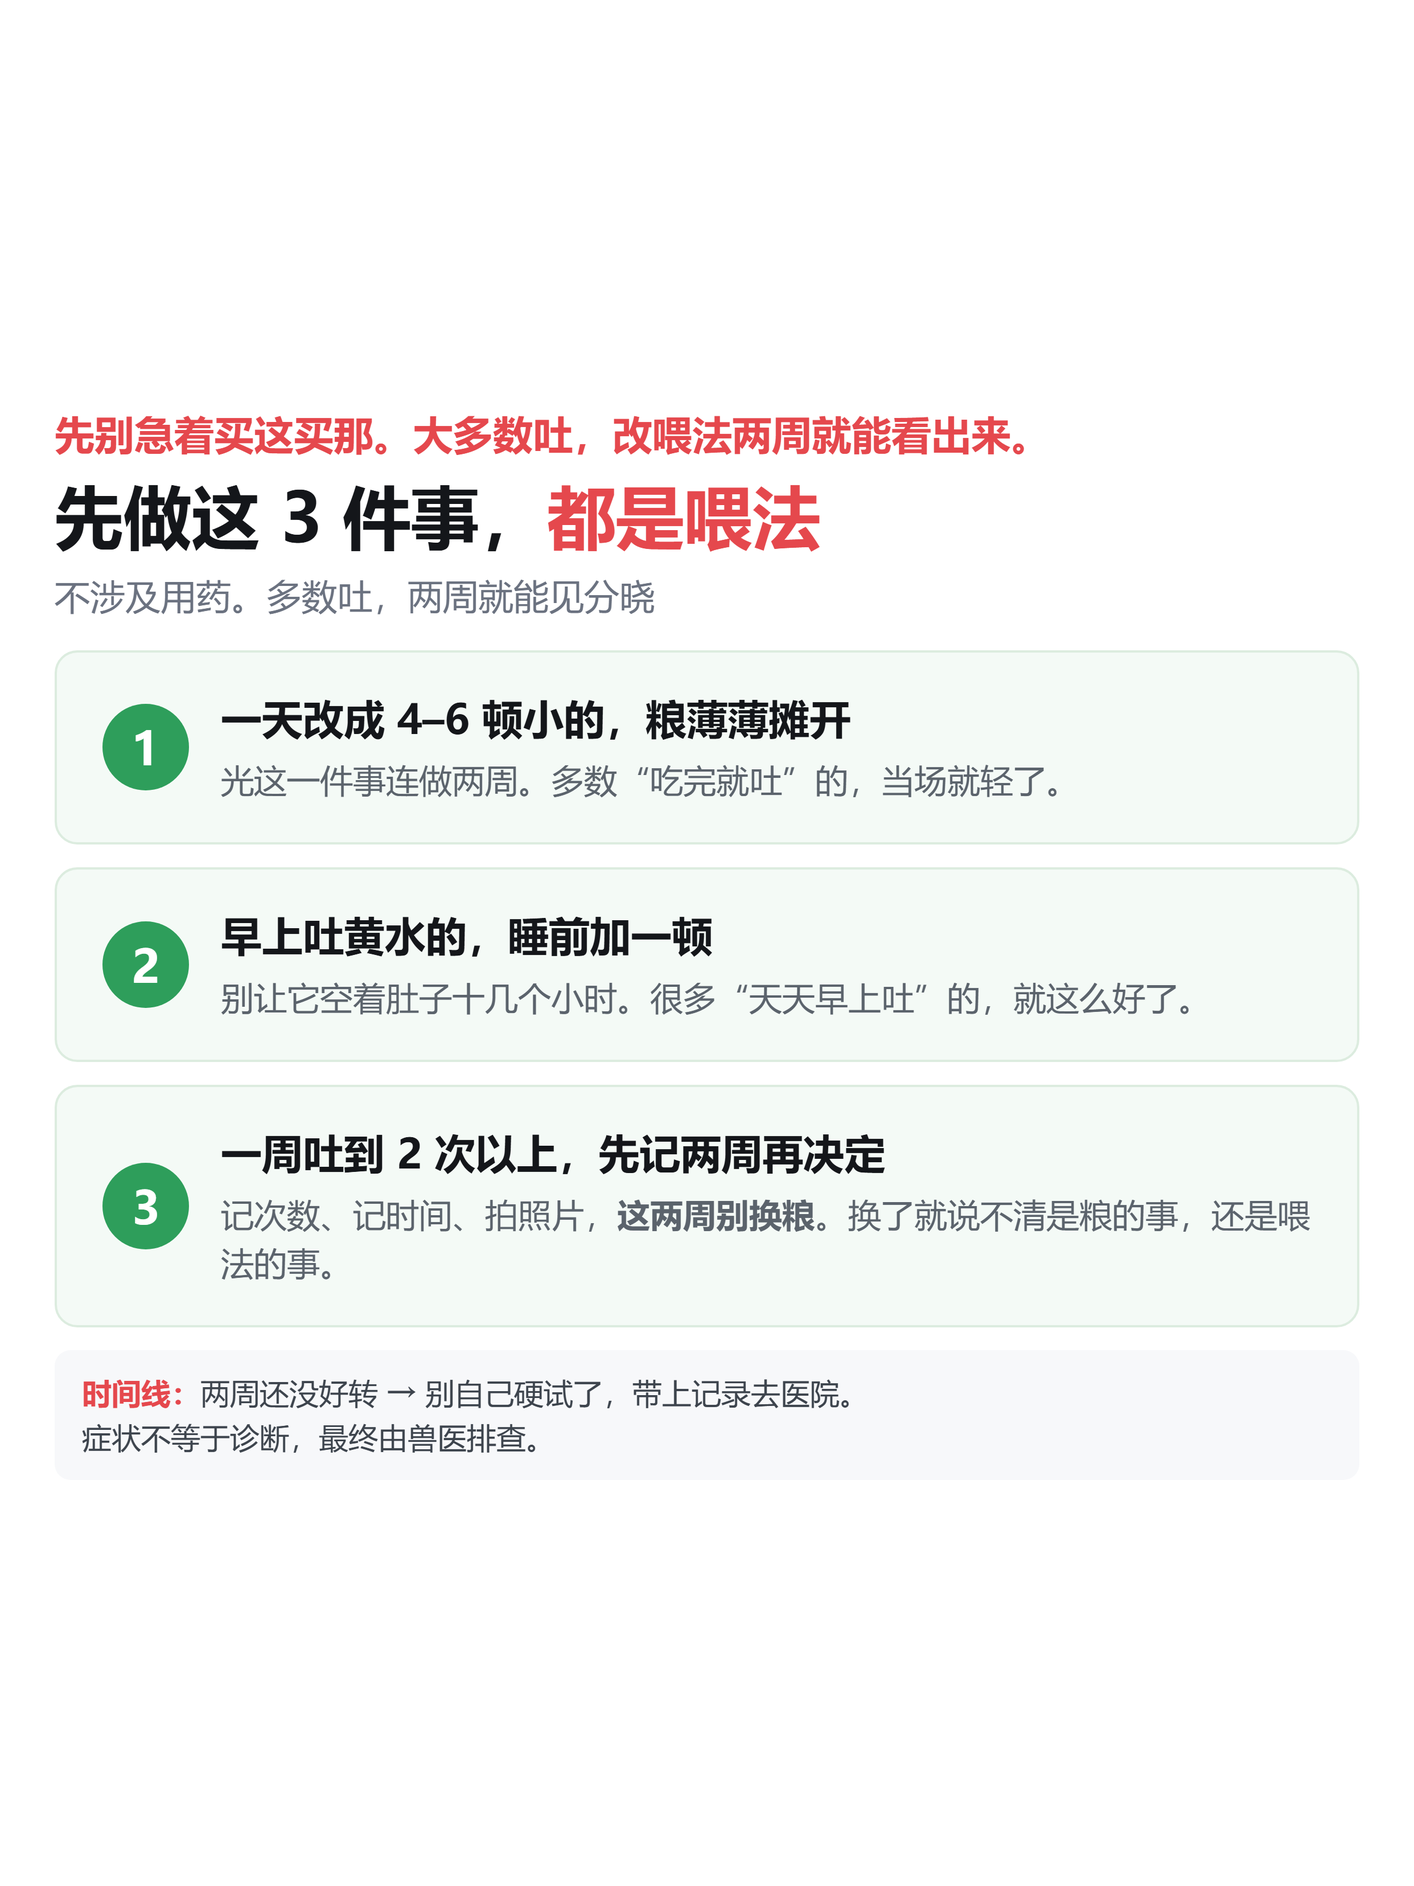
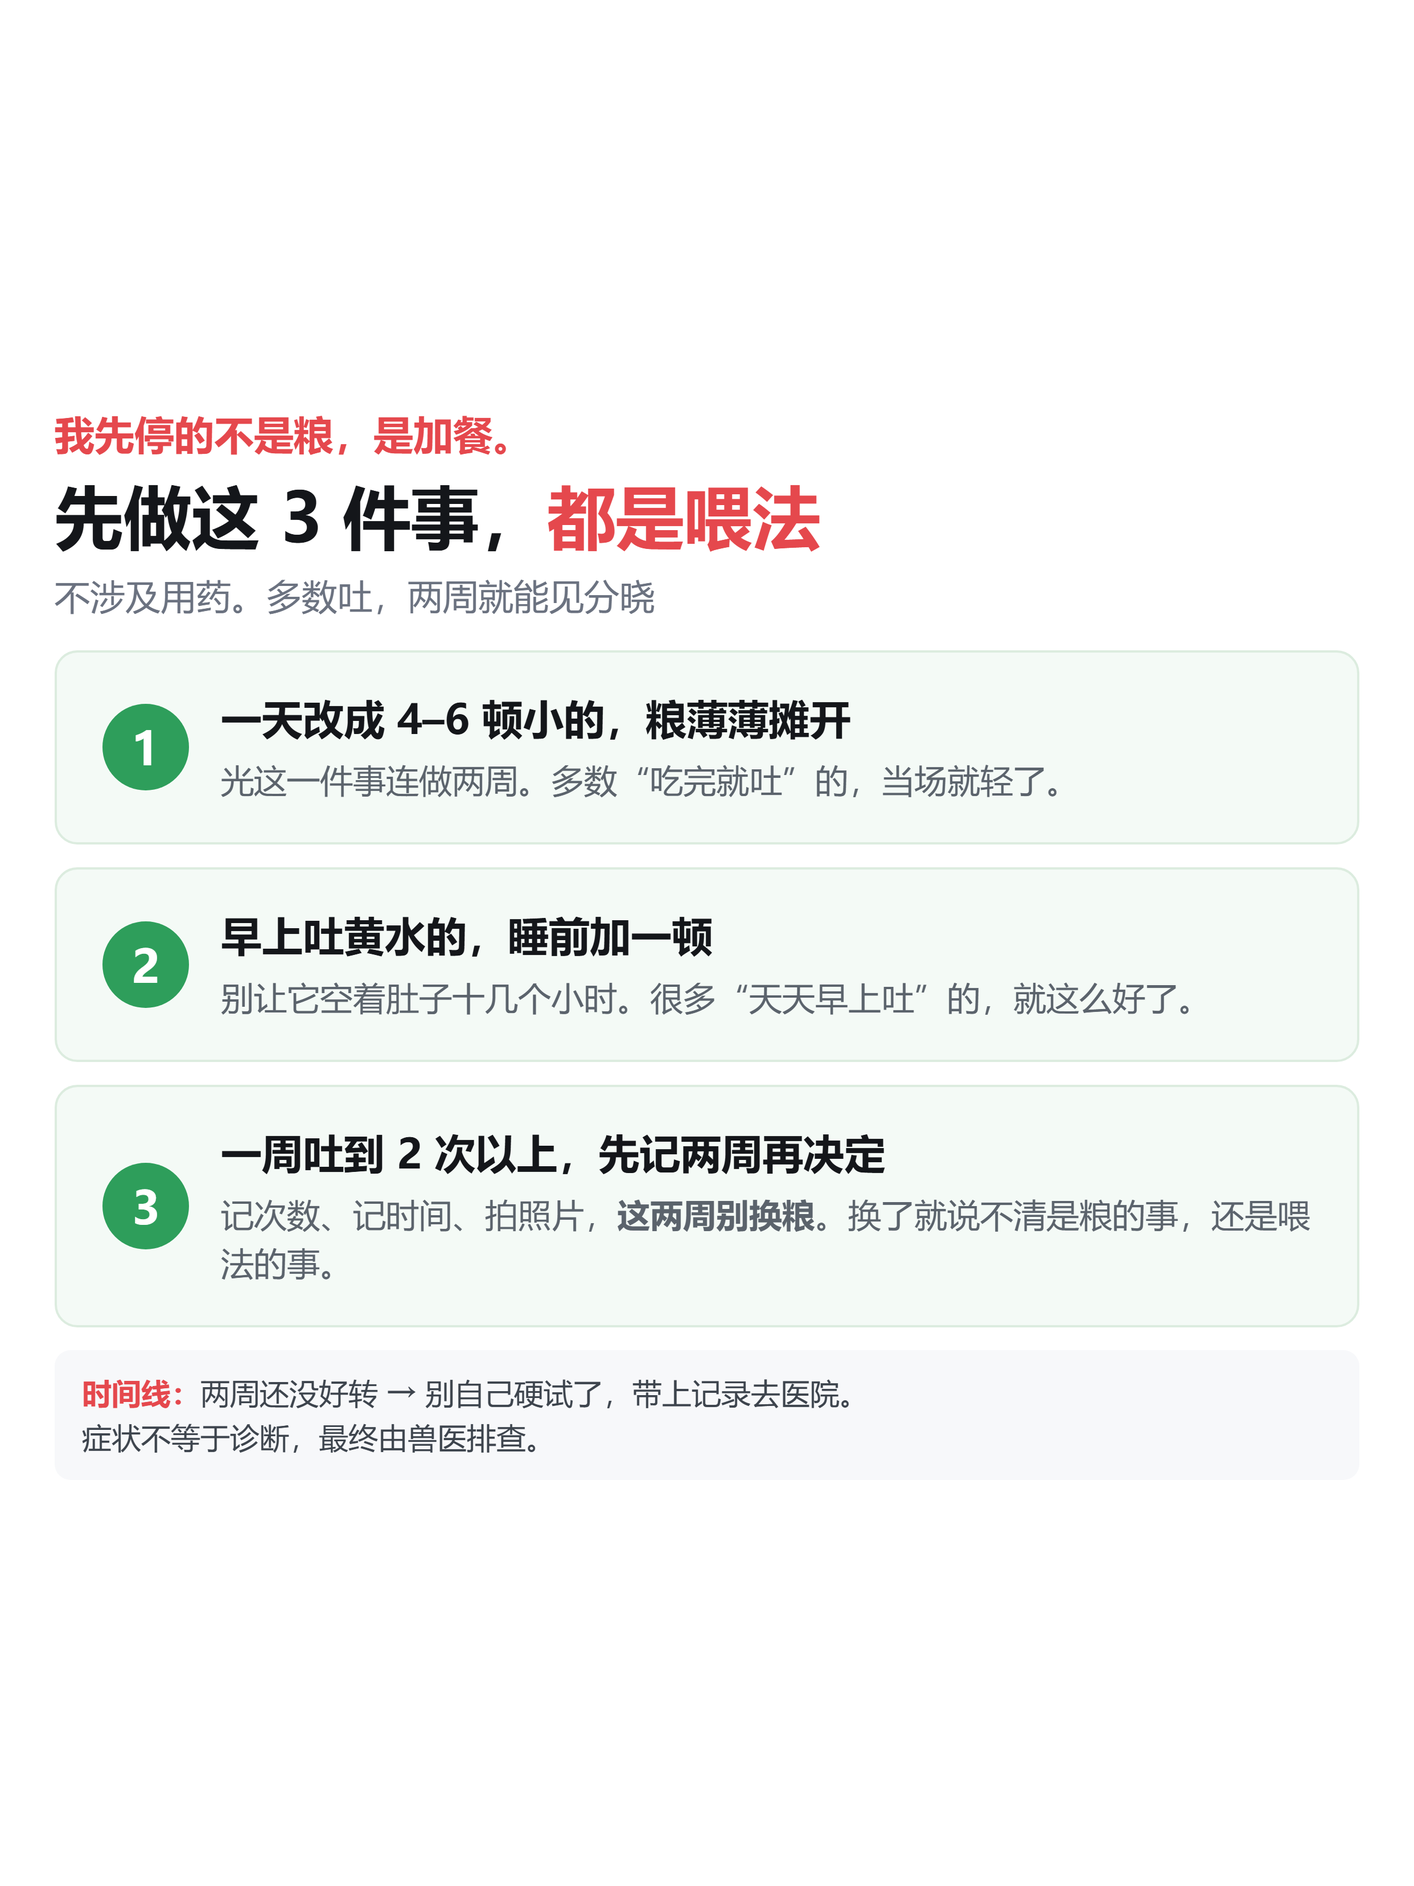
产出：01吐了情绪版——20处顶标改第一人称「我」、新增一期0情绪封面、正文改真实经历版；02同步改人称；预览页与README跟进

Changed region(s): [[0.031, 0.2177, 0.403, 0.2488], [0.434, 0.2177, 0.713, 0.2488]]

diff --git a/40-产出/主题/猫病症自查百科/成果物/01-吐了/定稿/01-吐了-两期预览.html b/40-产出/主题/猫病症自查百科/成果物/01-吐了/定稿/01-吐了-两期预览.html
@@ -64,19 +64,20 @@
 
 <div class="page-hd">
   <h1>01 吐了 · 两期发布预览</h1>
-  <p>第一期 = 判断（4 图）｜第二期 = 怎么办（6 图）<br>图可左右滑动；下面是该期的发布文案</p>
+  <p>第一期 = 判断（5 图）｜第二期 = 怎么办（6 图）<br>图可左右滑动；下面是该期的发布文案</p>
   <div class="meta">定稿 2026-10-10 ｜ 10 图 + 2 文案 ｜ 画布统一 1242×1656（3:4）｜ 已去 AI 味 ｜ 标题均 ≤20 字</div>
 </div>
 
 <!-- ==================== 第一期 ==================== -->
 <div class="note">
   <div class="note-hd">
-    <span class="p">第一期 · 判断（4 图）</span>
+    <span class="p">第一期 · 判断（5 图）</span>
     <span class="d">读者先要知道：我家猫这是咋了？要不要紧？</span>
     <span class="swipe">← 左右滑动看图 →</span>
   </div>
 
   <div class="imgs">
+    <div class="shot"><img src="一期/一期0-情绪封面.png" alt="一期0 情绪封面"><div class="cap">图0 · 情绪封面<br>信息流用</div></div>
     <div class="shot"><img src="一期/一期1-四列全链A-先在家.png" alt="一期1 四列全链A"><div class="cap">图1 · 四列全链 A<br>先在家处理的 5 种</div></div>
     <div class="shot"><img src="一期/一期2-四列全链B-别在家拖.png" alt="一期2 四列全链B"><div class="cap">图2 · 四列全链 B<br>别在家拖的 5 种</div></div>
     <div class="shot"><img src="一期/一期3-决策树.png" alt="一期3 决策树"><div class="cap">图3 · 决策树<br>以前 → 现在 → 该咋办</div></div>
@@ -88,11 +89,16 @@
     <h2>猫吐了先别慌，3 档看清要不要跑医院<span class="main">主推 · 18 字</span></h2>
 
     <div class="body">
-      <p>早上起来，地板上又是一摊。我第一反应也是"完了"：是不是喂错了？要不要马上跑医院？</p>
-      <p>先别慌。猫吐这事，多数是喂法闹的；但真有那么几种，压根不是胃的事。</p>
-      <p>前两张是一张完整的对号入座表，按「能不能在家处理」拆成两半：第一张是 5 种不用跑医院的，第二张是 5 种别在家拖的。<br>
+      <p>半夜三点，那声"呕"从客厅传过来。</p>
+      <p>我腾地就坐起来了，光脚踩过去，地板上已经一摊。</p>
+      <p>第一反应不是"这是什么病"，是"是不是我喂错了"。</p>
+      <p>蹲在那儿看了半天，我还拿手机拍了照，想搜"猫吐了怎么办"。搜出来一屏猫粮广告。</p>
+      <p>而它呢，吐完跟没事一样，扭头又去碗边闻了闻。</p>
+      <p>那一刻最难受的不是它吐，是我不知道该不该带它去医院。去了，怕大半夜小题大做；不去，又怕真耽误了什么。</p>
+      <p>后来我才把这件事弄清楚：猫吐，多数是喂法闹的；但真有那么几种，压根不是胃的事。而且这几种，半夜你是看不出来的，得对着"吐出来的是什么"一条条看。</p>
+      <p>第一张收 5 种在家就能处理的，第二张收 5 种别在家拖的，两张拼起来才是完整一张表。<br>
          第三张对着"以前 → 现在"看一遍，判断该调整、观察还是送医。<br>
-         最后一张是 7 个在家就能做的自测，今晚就能试。</p>
+         最后一张是 7 个在家就能做的自测，今晚就能查。</p>
     </div>
 
     <div class="src">出处：《猫病学》第 5 版第 1 篇第 236 条「呕吐」；2026 iCatCare 猫慢性肾病共识第 5、8 节。<br>

diff --git a/40-产出/主题/猫病症自查百科/成果物/01-吐了/定稿/一期/一期0-情绪封面.html b/40-产出/主题/猫病症自查百科/成果物/01-吐了/定稿/一期/一期0-情绪封面.html
@@ -1,0 +1,31 @@
+<!DOCTYPE html>
+<html lang="zh-CN"><head><meta charset="UTF-8"><title>一期0 · 情绪封面</title><style>
+*{margin:0;padding:0;box-sizing:border-box}
+html, body { width:1242px; height:1656px; }
+body { font-family:"Microsoft YaHei","PingFang SC","Source Han Sans SC",sans-serif;
+       background:#faf9f7; color:#14161a; padding:0 92px;
+       display:flex; flex-direction:column; justify-content:center; }
+.hook { font-size:82px; font-weight:900; line-height:1.3; letter-spacing:-1px; }
+.hook em { font-style:normal; color:#e5484d; }
+.sub { font-size:44px; font-weight:800; color:#e5484d; margin-top:34px; line-height:1.35; }
+.rule { width:120px; height:6px; background:#14161a; border-radius:3px; margin:44px 0 40px; }
+.blocks { display:flex; flex-direction:column; gap:16px; }
+.blk { display:flex; align-items:center; gap:22px; border-radius:16px; padding:22px 28px; font-size:34px; font-weight:800; }
+.blk .n { flex:0 0 56px; height:56px; border-radius:50%; background:#fff; display:flex;
+          align-items:center; justify-content:center; font-size:30px; }
+.g { background:#e3f2e8; border:2px solid #2e9e5b; color:#1c5b34; }
+.a { background:#fdf3dd; border:2px solid #f0a52e; color:#7a5206; }
+.r { background:#fbe3e3; border:2px solid #e5484d; color:#8a1f1f; }
+.g .n { color:#2e9e5b; } .a .n { color:#c98a1a; } .r .n { color:#e5484d; }
+.who { margin-top:56px; font-size:26px; color:#9aa1ab; line-height:1.5; }
+</style></head><body>
+  <div class="hook">半夜那声<em>“呕”</em>，<br>我从床上弹了起来。</div>
+  <div class="sub">猫吐了，先看是哪种</div>
+  <div class="rule"></div>
+  <div class="blocks">
+    <div class="blk g"><div class="n">1</div><div>在家调：多数是喂法闹的</div></div>
+    <div class="blk a"><div class="n">2</div><div>去排查：先记两周再看</div></div>
+    <div class="blk r"><div class="n">3</div><div>当天去：这几种不能等</div></div>
+  </div>
+  <div class="who">不会写代码的铲屎官不是好厨子。爱用数据说话，全网搜罗养猫心得，记录在此，希望对余华们有所帮助。</div>
+</body></html>

diff --git a/40-产出/主题/猫病症自查百科/成果物/02-不吃东西/定稿/一期/一期1-四列全链A-先在家.html b/40-产出/主题/猫病症自查百科/成果物/02-不吃东西/定稿/一期/一期1-四列全链A-先在家.html
@@ -25,7 +25,7 @@ svg{position:absolute;left:0;top:0}
 </style></head><body>
 <div class="stage">
 <svg width="1242" height="1656"><path d="M174 873 C 186 873, 184 343, 194 343" stroke="#c9c4bc" stroke-width="2" fill="none"/><path d="M174 873 C 186 873, 184 608, 194 608" stroke="#c9c4bc" stroke-width="2" fill="none"/><path d="M174 873 C 186 873, 184 873, 194 873" stroke="#c9c4bc" stroke-width="2" fill="none"/><path d="M174 873 C 186 873, 184 1138, 194 1138" stroke="#c9c4bc" stroke-width="2" fill="none"/><path d="M174 873 C 186 873, 184 1403, 194 1403" stroke="#c9c4bc" stroke-width="2" fill="none"/><path d="M534 343 L554 343 M534 608 L554 608 M534 873 L554 873 M534 1138 L554 1138 M534 1403 L554 1403" stroke="#c9c4bc" stroke-width="2" fill="none"/><path d="M874 343 L894 343 M874 608 L894 608 M874 873 L894 873 M874 1138 L894 1138 M874 1403 L894 1403" stroke="#c9c4bc" stroke-width="2" fill="none"/></svg>
-<div class="hook">以前一开粮袋就冲过来，现在闻一下就走。</div>
+<div class="hook">以前一开粮袋它冲过来，现在我端到跟前它才闻一下。</div>
 <div class="h">猫不吃东西：症状 → 可能原因 → 下一步<small>这 5 种多半在家就能处理</small></div>
 <div class="th" style="left:194px">具体症状</div>
 <div class="th" style="left:554px">可能是什么原因</div>

diff --git a/40-产出/主题/猫病症自查百科/成果物/02-不吃东西/定稿/一期/一期2-四列全链B-别在家拖.html b/40-产出/主题/猫病症自查百科/成果物/02-不吃东西/定稿/一期/一期2-四列全链B-别在家拖.html
@@ -25,7 +25,7 @@ svg{position:absolute;left:0;top:0}
 </style></head><body>
 <div class="stage">
 <svg width="1242" height="1656"><path d="M174 873 C 186 873, 184 343, 194 343" stroke="#c9c4bc" stroke-width="2" fill="none"/><path d="M174 873 C 186 873, 184 608, 194 608" stroke="#c9c4bc" stroke-width="2" fill="none"/><path d="M174 873 C 186 873, 184 873, 194 873" stroke="#c9c4bc" stroke-width="2" fill="none"/><path d="M174 873 C 186 873, 184 1138, 194 1138" stroke="#c9c4bc" stroke-width="2" fill="none"/><path d="M174 873 C 186 873, 184 1403, 194 1403" stroke="#c9c4bc" stroke-width="2" fill="none"/><path d="M534 343 L554 343 M534 608 L554 608 M534 873 L554 873 M534 1138 L554 1138 M534 1403 L554 1403" stroke="#c9c4bc" stroke-width="2" fill="none"/><path d="M874 343 L894 343 M874 608 L894 608 M874 873 L894 873 M874 1138 L894 1138 M874 1403 L894 1403" stroke="#c9c4bc" stroke-width="2" fill="none"/></svg>
-<div class="hook">猫能饿一天，可有些情况，一天都嫌多。</div>
+<div class="hook">我以为饿一天没事，后来才知道有些情况一天都嫌多。</div>
 <div class="h">猫不吃东西：这 5 种别在家拖<small>照片拍好、记录带上，直接找医生</small></div>
 <div class="th" style="left:194px">具体症状</div>
 <div class="th" style="left:554px">可能是什么原因</div>

diff --git a/40-产出/主题/猫病症自查百科/成果物/01-吐了/定稿/一期/一期1-四列全链A-先在家.html b/40-产出/主题/猫病症自查百科/成果物/01-吐了/定稿/一期/一期1-四列全链A-先在家.html
@@ -25,7 +25,7 @@ svg{position:absolute;left:0;top:0}
 </style></head><body>
 <div class="stage">
 <svg width="1242" height="1656"><path d="M174 873 C 186 873, 184 343, 194 343" stroke="#c9c4bc" stroke-width="2" fill="none"/><path d="M174 873 C 186 873, 184 608, 194 608" stroke="#c9c4bc" stroke-width="2" fill="none"/><path d="M174 873 C 186 873, 184 873, 194 873" stroke="#c9c4bc" stroke-width="2" fill="none"/><path d="M174 873 C 186 873, 184 1138, 194 1138" stroke="#c9c4bc" stroke-width="2" fill="none"/><path d="M174 873 C 186 873, 184 1403, 194 1403" stroke="#c9c4bc" stroke-width="2" fill="none"/><path d="M534 343 L554 343 M534 608 L554 608 M534 873 L554 873 M534 1138 L554 1138 M534 1403 L554 1403" stroke="#c9c4bc" stroke-width="2" fill="none"/><path d="M874 343 L894 343 M874 608 L894 608 M874 873 L894 873 M874 1138 L894 1138 M874 1403 L894 1403" stroke="#c9c4bc" stroke-width="2" fill="none"/></svg>
-<div class="hook">半夜那声“呕”，能让人从床上弹起来。</div>
+<div class="hook">半夜那声“呕”，我从床上弹了起来。</div>
 <div class="h">猫吐了：症状 → 可能原因 → 下一步<small>先看这 5 种，多数不用跑医院</small></div>
 <div class="th" style="left:194px">具体症状</div>
 <div class="th" style="left:554px">可能是什么原因</div>

diff --git a/40-产出/主题/猫病症自查百科/成果物/01-吐了/定稿/一期/一期2-四列全链B-别在家拖.html b/40-产出/主题/猫病症自查百科/成果物/01-吐了/定稿/一期/一期2-四列全链B-别在家拖.html
@@ -25,7 +25,7 @@ svg{position:absolute;left:0;top:0}
 </style></head><body>
 <div class="stage">
 <svg width="1242" height="1656"><path d="M174 873 C 186 873, 184 343, 194 343" stroke="#c9c4bc" stroke-width="2" fill="none"/><path d="M174 873 C 186 873, 184 608, 194 608" stroke="#c9c4bc" stroke-width="2" fill="none"/><path d="M174 873 C 186 873, 184 873, 194 873" stroke="#c9c4bc" stroke-width="2" fill="none"/><path d="M174 873 C 186 873, 184 1138, 194 1138" stroke="#c9c4bc" stroke-width="2" fill="none"/><path d="M174 873 C 186 873, 184 1403, 194 1403" stroke="#c9c4bc" stroke-width="2" fill="none"/><path d="M534 343 L554 343 M534 608 L554 608 M534 873 L554 873 M534 1138 L554 1138 M534 1403 L554 1403" stroke="#c9c4bc" stroke-width="2" fill="none"/><path d="M874 343 L894 343 M874 608 L894 608 M874 873 L894 873 M874 1138 L894 1138 M874 1403 L894 1403" stroke="#c9c4bc" stroke-width="2" fill="none"/></svg>
-<div class="hook">有些吐，在家等一晚就晚了。</div>
+<div class="hook">我原想着再等等，后来才知道有些吐等不得。</div>
 <div class="h">猫吐了：这 5 种别在家拖<small>拍好视频、带上记录，直接找医生</small></div>
 <div class="th" style="left:194px">具体症状</div>
 <div class="th" style="left:554px">可能是什么原因</div>

diff --git a/40-产出/主题/猫病症自查百科/成果物/02-不吃东西/定稿/02-不吃东西-两期预览.html b/40-产出/主题/猫病症自查百科/成果物/02-不吃东西/定稿/02-不吃东西-两期预览.html
@@ -80,8 +80,9 @@
     <h2>猫不吃东西先别换粮，先看这 5 种<span class="main">主推 · 17 字</span></h2>
 
     <div class="body">
-      <p>今天这碗粮，它又没动。换粮的念头，估计又冒出来了。</p>
-      <p>先别换。猫不吃东西，多数是喂法闹的；但真有那么几种，压根不是胃口的事。</p>
+      <p>今天这碗粮，它又没动。</p>
+      <p>换粮的念头，估计又冒出来了。我也一样，第一反应就是"是不是这粮不行"。</p>
+      <p>后来才知道：猫不吃东西，多数是喂法闹的；但真有那么几种，压根不是胃口的事。</p>
       <p>第一张收 5 种在家就能处理的，第二张收 5 种别在家拖的，两张拼起来才是完整一张表。<br>
          第三张对着"以前 → 现在"看一遍，判断该调整、观察还是送医。<br>
          最后一张是 6 个在家就能做的自测，今晚就能查。</p>

diff --git a/40-产出/主题/猫病症自查百科/成果物/02-不吃东西/定稿/一期/一期3-决策树.html b/40-产出/主题/猫病症自查百科/成果物/02-不吃东西/定稿/一期/一期3-决策树.html
@@ -18,7 +18,7 @@ h1 em { font-style:normal; color:#e5484d; }
 .d-g { background:#2e9e5b; } .d-a { background:#f0a52e; } .d-r { background:#e5484d; }
 .foot { margin-top:22px; font-size:24px; color:#8a9099; line-height:1.5; }
 </style></head><body>
-  <div class="ask">碗里的粮一口没动。是挑食，还是真不吃？</div>
+  <div class="ask">碗里的粮一口没动。我分不清是挑食，还是真不吃。</div>
   <h1>这顿不吃，<em>算哪一档？</em></h1>
   <div class="sub">「以前」和「现在」摆一起看，答案就出来了</div>
 

diff --git a/40-产出/主题/猫病症自查百科/成果物/02-不吃东西/定稿/一期/一期4-六个自测.html b/40-产出/主题/猫病症自查百科/成果物/02-不吃东西/定稿/一期/一期4-六个自测.html
@@ -16,7 +16,7 @@ h1 em { font-style:normal; color:#e5484d; }
 .src { margin-top:22px; font-size:23px; color:#8a9099; line-height:1.55; border-top:2px dashed #e6eaef; padding-top:16px; }
 .src b { color:#5b636c; }
 </style></head><body>
-  <div class="ask">空盆摆在那儿，先别急着换粮。这 6 个，在家就能查。</div>
+  <div class="ask">我第一反应是换粮。其实这 6 个，在家就能先查。</div>
   <h1>这 6 个，<em>今晚就能查</em></h1>
   <div class="sub">每条都告诉你：怎么做、结果怎么读</div>
 

diff --git a/40-产出/主题/猫病症自查百科/成果物/02-不吃东西/定稿/二期/二期1-谁更容易中招.html b/40-产出/主题/猫病症自查百科/成果物/02-不吃东西/定稿/二期/二期1-谁更容易中招.html
@@ -14,7 +14,7 @@ h1 em { font-style:normal; color:#e5484d; }
 .foot { margin-top:24px; font-size:24px; color:#8a9099; line-height:1.5; }
 </style></head><body>
 
-  <div class="ask">不分品种，哪只猫都可能不吃。但有几群，要更留心一点。</div>
+  <div class="ask">我原以为是我家猫挑，后来发现有几群本来就要更留心。</div>
   <h1>哪几群猫，<em>更容易不吃？</em></h1>
   <div class="sub">对一下，你家猫在不在里面</div>
 

diff --git a/40-产出/主题/猫病症自查百科/成果物/02-不吃东西/定稿/二期/二期2-挑食还是恶心.html b/40-产出/主题/猫病症自查百科/成果物/02-不吃东西/定稿/二期/二期2-挑食还是恶心.html
@@ -23,7 +23,7 @@ h1 em { font-style:normal; color:#e5484d; }
 .src { margin-top:16px; font-size:23px; color:#9aa1ab; line-height:1.5; }
 </style></head><body>
 
-  <div class="ask">它到底是挑食，还是吃不下？这两件事，主人常常分不清。</div>
+  <div class="ask">它到底是挑食，还是吃不下？我一开始分不清。</div>
   <h1>挑食，还是<em>真不吃？</em></h1>
   <div class="sub">看着都像“不想吃”，可方向完全不一样</div>
 

diff --git a/40-产出/主题/猫病症自查百科/成果物/02-不吃东西/定稿/二期/二期3-几天不吃算不正常.html b/40-产出/主题/猫病症自查百科/成果物/02-不吃东西/定稿/二期/二期3-几天不吃算不正常.html
@@ -19,7 +19,7 @@ h1 em { font-style:normal; color:#e5484d; }
 .foot b { color:#14161a; }
 </style></head><body>
 
-  <div class="ask">一天没吃还扛得住。可到底几天才算不正常，心里没底。</div>
+  <div class="ask">一天没吃我还能忍。可到底几天算不正常，心里没底。</div>
   <h1>不吃几天，<em>就该去医院？</em></h1>
   <div class="sub">从“没胃口”到“该去医院”，中间有一条线</div>
 
